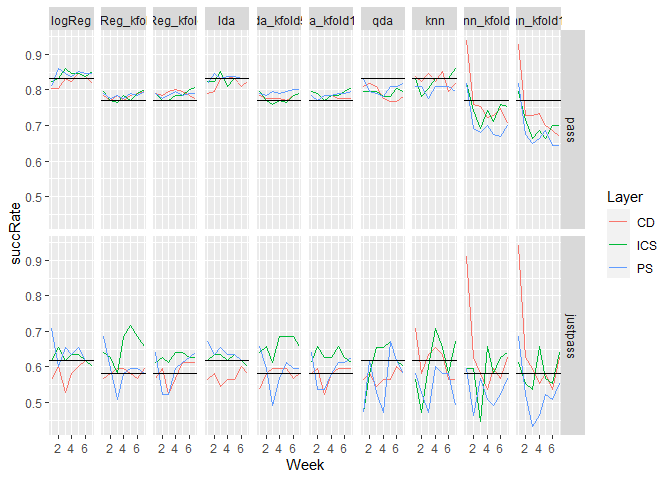
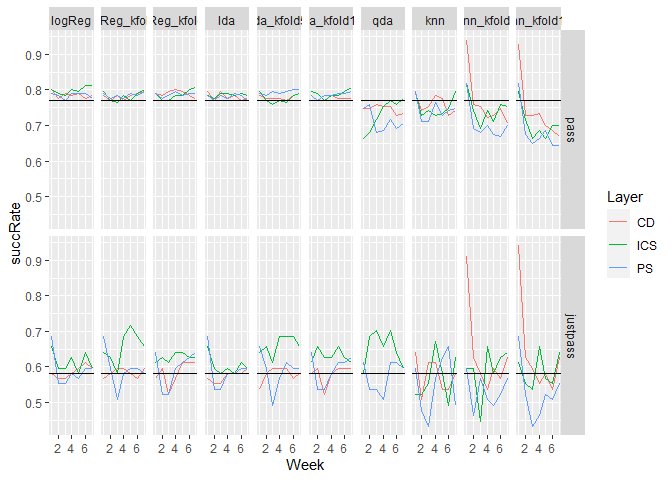
Fix success rate Guessing calculations and remake plot

diff --git a/docs/cross_validation.html b/docs/cross_validation.html
@@ -418,7 +418,7 @@ summary {
 
 
 <p>Goal for this document is to summarize results from the cross-validation methods we used: Leave One Out Cross-Validation aka LOOCV aka jackknife, and k-fold cross-validation with <code>k=5</code> and <code>k=10</code>.</p>
-<p><strong>Update 24 Mar:</strong> Tidied up data frame of success rates and made a facet grid plot.</p>
+<p><strong>Update 25 Mar:</strong> Updated success rates (LOOCV files were using an outdated set of predictors) and remade the facet grid plot.</p>
 <pre><code>## Warning: package &#39;igraph&#39; was built under R version 4.0.3</code></pre>
 <pre><code>## Warning: package &#39;tibble&#39; was built under R version 4.0.3</code></pre>
 <div id="import-data" class="section level2">
@@ -512,16 +512,16 @@ succRateWide</code></pre>
 <pre><code>## # A tibble: 60 x 13
 ##    outcome name  Layer     N Week1 Week2 Week3 Week4 Week5 Week6 Week7 Guessing
 ##    &lt;chr&gt;   &lt;chr&gt; &lt;chr&gt; &lt;int&gt; &lt;dbl&gt; &lt;dbl&gt; &lt;dbl&gt; &lt;dbl&gt; &lt;dbl&gt; &lt;dbl&gt; &lt;dbl&gt;    &lt;dbl&gt;
-##  1 pass    logR~ PS      142 0.810 0.859 0.845 0.838 0.852 0.845 0.845    0.831
-##  2 pass    logR~ CD      142 0.803 0.803 0.831 0.824 0.845 0.838 0.817    0.831
-##  3 pass    logR~ ICS     142 0.824 0.831 0.859 0.845 0.845 0.838 0.852    0.831
+##  1 pass    logR~ PS      166 0.789 0.783 0.771 0.789 0.789 0.789 0.777    0.771
+##  2 pass    logR~ CD      166 0.801 0.777 0.789 0.783 0.789 0.777 0.783    0.771
+##  3 pass    logR~ ICS     166 0.801 0.789 0.783 0.801 0.795 0.813 0.813    0.771
 ##  4 pass    logR~ PS      166 0.789 0.777 0.783 0.777 0.789 0.783 0.795    0.771
 ##  5 pass    logR~ CD      166 0.783 0.771 0.783 0.771 0.783 0.789 0.795    0.771
 ##  6 pass    logR~ ICS     166 0.795 0.771 0.765 0.783 0.771 0.789 0.801    0.771
 ##  7 pass    logR~ PS      166 0.789 0.777 0.783 0.795 0.783 0.789 0.789    0.771
 ##  8 pass    logR~ CD      166 0.789 0.783 0.795 0.801 0.795 0.783 0.777    0.771
 ##  9 pass    logR~ ICS     166 0.789 0.771 0.771 0.783 0.783 0.801 0.807    0.771
-## 10 pass    lda   PS      142 0.817 0.845 0.831 0.838 0.838 0.831 0.831    0.831
+## 10 pass    lda   PS      166 0.783 0.771 0.783 0.777 0.789 0.783 0.771    0.771
 ## # ... with 50 more rows, and 1 more variable: nK &lt;int&gt;</code></pre>
 <p>Finally, turn that wide frame (separate column for each week) into a long one (column for week number + single column for result). While I’m at it, factor-ize the name of the method used and reorder the levels.</p>
 <pre class="r"><code>succRateLong &lt;- succRateWide %&gt;% 
@@ -537,16 +537,16 @@ succRateLong</code></pre>
 <pre><code>## # A tibble: 420 x 9
 ##    outcome name   Layer  Week     N Guessing    nK succRate method
 ##    &lt;fct&gt;   &lt;chr&gt;  &lt;chr&gt; &lt;int&gt; &lt;int&gt;    &lt;dbl&gt; &lt;int&gt;    &lt;dbl&gt; &lt;fct&gt; 
-##  1 pass    logReg PS        1   142    0.831    NA    0.810 logReg
-##  2 pass    logReg PS        2   142    0.831    NA    0.859 logReg
-##  3 pass    logReg PS        3   142    0.831    NA    0.845 logReg
-##  4 pass    logReg PS        4   142    0.831    NA    0.838 logReg
-##  5 pass    logReg PS        5   142    0.831    NA    0.852 logReg
-##  6 pass    logReg PS        6   142    0.831    NA    0.845 logReg
-##  7 pass    logReg PS        7   142    0.831    NA    0.845 logReg
-##  8 pass    logReg CD        1   142    0.831    NA    0.803 logReg
-##  9 pass    logReg CD        2   142    0.831    NA    0.803 logReg
-## 10 pass    logReg CD        3   142    0.831    NA    0.831 logReg
+##  1 pass    logReg PS        1   166    0.771    NA    0.789 logReg
+##  2 pass    logReg PS        2   166    0.771    NA    0.783 logReg
+##  3 pass    logReg PS        3   166    0.771    NA    0.771 logReg
+##  4 pass    logReg PS        4   166    0.771    NA    0.789 logReg
+##  5 pass    logReg PS        5   166    0.771    NA    0.789 logReg
+##  6 pass    logReg PS        6   166    0.771    NA    0.789 logReg
+##  7 pass    logReg PS        7   166    0.771    NA    0.777 logReg
+##  8 pass    logReg CD        1   166    0.771    NA    0.801 logReg
+##  9 pass    logReg CD        2   166    0.771    NA    0.777 logReg
+## 10 pass    logReg CD        3   166    0.771    NA    0.789 logReg
 ## # ... with 410 more rows</code></pre>
 </div>
 <div id="plot-success-rates" class="section level3">
@@ -556,33 +556,9 @@ succRateLong</code></pre>
   geom_line() + 
   facet_grid(rows = vars(outcome), cols = vars(method)) + 
   geom_hline(aes(yintercept = Guessing))</code></pre>
[1 lines of base64/hex data omitted]
-<p>Hmm. This is the first time I’ve noticed that the k-fold calculations have a different (but same-as-each-other) value of success rate compared to the LOOCV/jackknife calculations. Specifically,</p>
-<pre class="r"><code>succRateLong %&gt;% filter(Week == 1, Layer == &quot;PS&quot;)</code></pre>
-<pre><code>## # A tibble: 20 x 9
-##    outcome  name          Layer  Week     N Guessing    nK succRate method      
-##    &lt;fct&gt;    &lt;chr&gt;         &lt;chr&gt; &lt;int&gt; &lt;int&gt;    &lt;dbl&gt; &lt;int&gt;    &lt;dbl&gt; &lt;fct&gt;       
-##  1 pass     logReg        PS        1   142    0.831    NA    0.810 logReg      
-##  2 pass     logReg_kfold5 PS        1   166    0.771    NA    0.789 logReg_kfol~
-##  3 pass     logReg_kfold~ PS        1   166    0.771    NA    0.789 logReg_kfol~
-##  4 pass     lda           PS        1   142    0.831    NA    0.817 lda         
-##  5 pass     lda_kfold5    PS        1   166    0.771    NA    0.789 lda_kfold5  
-##  6 pass     lda_kfold10   PS        1   166    0.771    NA    0.783 lda_kfold10 
-##  7 pass     qda           PS        1   142    0.831    NA    0.831 qda         
-##  8 pass     knn           PS        1   142    0.831     2    0.810 knn         
-##  9 pass     knn_kfold5    PS        1   166    0.771     2    0.819 knn_kfold5  
-## 10 pass     knn_kfold10   PS        1   166    0.771     2    0.819 knn_kfold10 
-## 11 justpass logReg        PS        1    55    0.618    NA    0.709 logReg      
-## 12 justpass logReg_kfold5 PS        1    67    0.582    NA    0.687 logReg_kfol~
-## 13 justpass logReg_kfold~ PS        1    67    0.582    NA    0.642 logReg_kfol~
-## 14 justpass lda           PS        1    55    0.618    NA    0.673 lda         
-## 15 justpass lda_kfold5    PS        1    67    0.582    NA    0.657 lda_kfold5  
-## 16 justpass lda_kfold10   PS        1    67    0.582    NA    0.642 lda_kfold10 
-## 17 justpass qda           PS        1    55    0.618    NA    0.473 qda         
-## 18 justpass knn           PS        1    55    0.618     2    0.582 knn         
-## 19 justpass knn_kfold5    PS        1    67    0.582     2    0.597 knn_kfold5  
-## 20 justpass knn_kfold10   PS        1    67    0.582     2    0.687 knn_kfold10</code></pre>
-<p>I can’t think of a reason those should be different, so I need to check the <code>passfail_XX.R</code> files to figure out why. (Update: Looks like the jackknife files were using <code>fci_pre</code> rather than <code>fci_pre_c</code> as a predictor; fix that and re-run.)</p>
+<pre><code>## Warning: Removed 7 rows containing missing values (geom_hline).</code></pre>
[1 lines of base64/hex data omitted]
+<p>There’s no CD layer line for qda because I got an error when running that, and the errors intensified for k-fold cross validation. So that looks like an unfruitful line to pursue.</p>
 </div>
 </div>
 

diff --git a/docs/cross_validation.md b/docs/cross_validation.md
@@ -11,7 +11,7 @@ output:
 
 Goal for this document is to summarize results from the cross-validation methods we used: Leave One Out Cross-Validation aka LOOCV aka jackknife, and k-fold cross-validation with `k=5` and `k=10`.
 
-**Update 24 Mar:** Tidied up data frame of success rates and made a facet grid plot. 
+**Update 25 Mar:** Updated success rates (LOOCV files were using an outdated set of predictors) and remade the facet grid plot. 
 
 
 ```
@@ -145,16 +145,16 @@ succRateWide
 ## # A tibble: 60 x 13
 ##    outcome name  Layer     N Week1 Week2 Week3 Week4 Week5 Week6 Week7 Guessing
 ##    <chr>   <chr> <chr> <int> <dbl> <dbl> <dbl> <dbl> <dbl> <dbl> <dbl>    <dbl>
-##  1 pass    logR~ PS      142 0.810 0.859 0.845 0.838 0.852 0.845 0.845    0.831
-##  2 pass    logR~ CD      142 0.803 0.803 0.831 0.824 0.845 0.838 0.817    0.831
-##  3 pass    logR~ ICS     142 0.824 0.831 0.859 0.845 0.845 0.838 0.852    0.831
+##  1 pass    logR~ PS      166 0.789 0.783 0.771 0.789 0.789 0.789 0.777    0.771
+##  2 pass    logR~ CD      166 0.801 0.777 0.789 0.783 0.789 0.777 0.783    0.771
+##  3 pass    logR~ ICS     166 0.801 0.789 0.783 0.801 0.795 0.813 0.813    0.771
 ##  4 pass    logR~ PS      166 0.789 0.777 0.783 0.777 0.789 0.783 0.795    0.771
 ##  5 pass    logR~ CD      166 0.783 0.771 0.783 0.771 0.783 0.789 0.795    0.771
 ##  6 pass    logR~ ICS     166 0.795 0.771 0.765 0.783 0.771 0.789 0.801    0.771
 ##  7 pass    logR~ PS      166 0.789 0.777 0.783 0.795 0.783 0.789 0.789    0.771
 ##  8 pass    logR~ CD      166 0.789 0.783 0.795 0.801 0.795 0.783 0.777    0.771
 ##  9 pass    logR~ ICS     166 0.789 0.771 0.771 0.783 0.783 0.801 0.807    0.771
-## 10 pass    lda   PS      142 0.817 0.845 0.831 0.838 0.838 0.831 0.831    0.831
+## 10 pass    lda   PS      166 0.783 0.771 0.783 0.777 0.789 0.783 0.771    0.771
 ## # ... with 50 more rows, and 1 more variable: nK <int>
 ```
 
@@ -178,16 +178,16 @@ succRateLong
 ## # A tibble: 420 x 9
 ##    outcome name   Layer  Week     N Guessing    nK succRate method
 ##    <fct>   <chr>  <chr> <int> <int>    <dbl> <int>    <dbl> <fct> 
-##  1 pass    logReg PS        1   142    0.831    NA    0.810 logReg
-##  2 pass    logReg PS        2   142    0.831    NA    0.859 logReg
-##  3 pass    logReg PS        3   142    0.831    NA    0.845 logReg
-##  4 pass    logReg PS        4   142    0.831    NA    0.838 logReg
-##  5 pass    logReg PS        5   142    0.831    NA    0.852 logReg
-##  6 pass    logReg PS        6   142    0.831    NA    0.845 logReg
-##  7 pass    logReg PS        7   142    0.831    NA    0.845 logReg
-##  8 pass    logReg CD        1   142    0.831    NA    0.803 logReg
-##  9 pass    logReg CD        2   142    0.831    NA    0.803 logReg
-## 10 pass    logReg CD        3   142    0.831    NA    0.831 logReg
+##  1 pass    logReg PS        1   166    0.771    NA    0.789 logReg
+##  2 pass    logReg PS        2   166    0.771    NA    0.783 logReg
+##  3 pass    logReg PS        3   166    0.771    NA    0.771 logReg
+##  4 pass    logReg PS        4   166    0.771    NA    0.789 logReg
+##  5 pass    logReg PS        5   166    0.771    NA    0.789 logReg
+##  6 pass    logReg PS        6   166    0.771    NA    0.789 logReg
+##  7 pass    logReg PS        7   166    0.771    NA    0.777 logReg
+##  8 pass    logReg CD        1   166    0.771    NA    0.801 logReg
+##  9 pass    logReg CD        2   166    0.771    NA    0.777 logReg
+## 10 pass    logReg CD        3   166    0.771    NA    0.789 logReg
 ## # ... with 410 more rows
 ```
 
@@ -205,39 +205,10 @@ succRateLong %>% ggplot(mapping = aes(x = Week, y = succRate, color = Layer)) +
   geom_hline(aes(yintercept = Guessing))
 ```
 
+```
+## Warning: Removed 7 rows containing missing values (geom_hline).
+```
+
 ![](cross_validation_files/figure-html/unnamed-chunk-5-1.png)<!-- -->
 
-Hmm. This is the first time I've noticed that the k-fold calculations have a different (but same-as-each-other) value of success rate compared to the LOOCV/jackknife calculations. Specifically, 
-
-
-```r
-succRateLong %>% filter(Week == 1, Layer == "PS")
-```
-
-```
-## # A tibble: 20 x 9
-##    outcome  name          Layer  Week     N Guessing    nK succRate method      
-##    <fct>    <chr>         <chr> <int> <int>    <dbl> <int>    <dbl> <fct>       
-##  1 pass     logReg        PS        1   142    0.831    NA    0.810 logReg      
-##  2 pass     logReg_kfold5 PS        1   166    0.771    NA    0.789 logReg_kfol~
-##  3 pass     logReg_kfold~ PS        1   166    0.771    NA    0.789 logReg_kfol~
-##  4 pass     lda           PS        1   142    0.831    NA    0.817 lda         
-##  5 pass     lda_kfold5    PS        1   166    0.771    NA    0.789 lda_kfold5  
-##  6 pass     lda_kfold10   PS        1   166    0.771    NA    0.783 lda_kfold10 
-##  7 pass     qda           PS        1   142    0.831    NA    0.831 qda         
-##  8 pass     knn           PS        1   142    0.831     2    0.810 knn         
-##  9 pass     knn_kfold5    PS        1   166    0.771     2    0.819 knn_kfold5  
-## 10 pass     knn_kfold10   PS        1   166    0.771     2    0.819 knn_kfold10 
-## 11 justpass logReg        PS        1    55    0.618    NA    0.709 logReg      
-## 12 justpass logReg_kfold5 PS        1    67    0.582    NA    0.687 logReg_kfol~
-## 13 justpass logReg_kfold~ PS        1    67    0.582    NA    0.642 logReg_kfol~
-## 14 justpass lda           PS        1    55    0.618    NA    0.673 lda         
-## 15 justpass lda_kfold5    PS        1    67    0.582    NA    0.657 lda_kfold5  
-## 16 justpass lda_kfold10   PS        1    67    0.582    NA    0.642 lda_kfold10 
-## 17 justpass qda           PS        1    55    0.618    NA    0.473 qda         
-## 18 justpass knn           PS        1    55    0.618     2    0.582 knn         
-## 19 justpass knn_kfold5    PS        1    67    0.582     2    0.597 knn_kfold5  
-## 20 justpass knn_kfold10   PS        1    67    0.582     2    0.687 knn_kfold10
-```
-
-I can't think of a reason those should be different, so I need to check the `passfail_XX.R` files to figure out why. (Update: Looks like the jackknife files were using `fci_pre` rather than `fci_pre_c` as a predictor; fix that and re-run.)
+There's no CD layer line for qda because I got an error when running that, and the errors intensified for k-fold cross validation. So that looks like an unfruitful line to pursue. 
